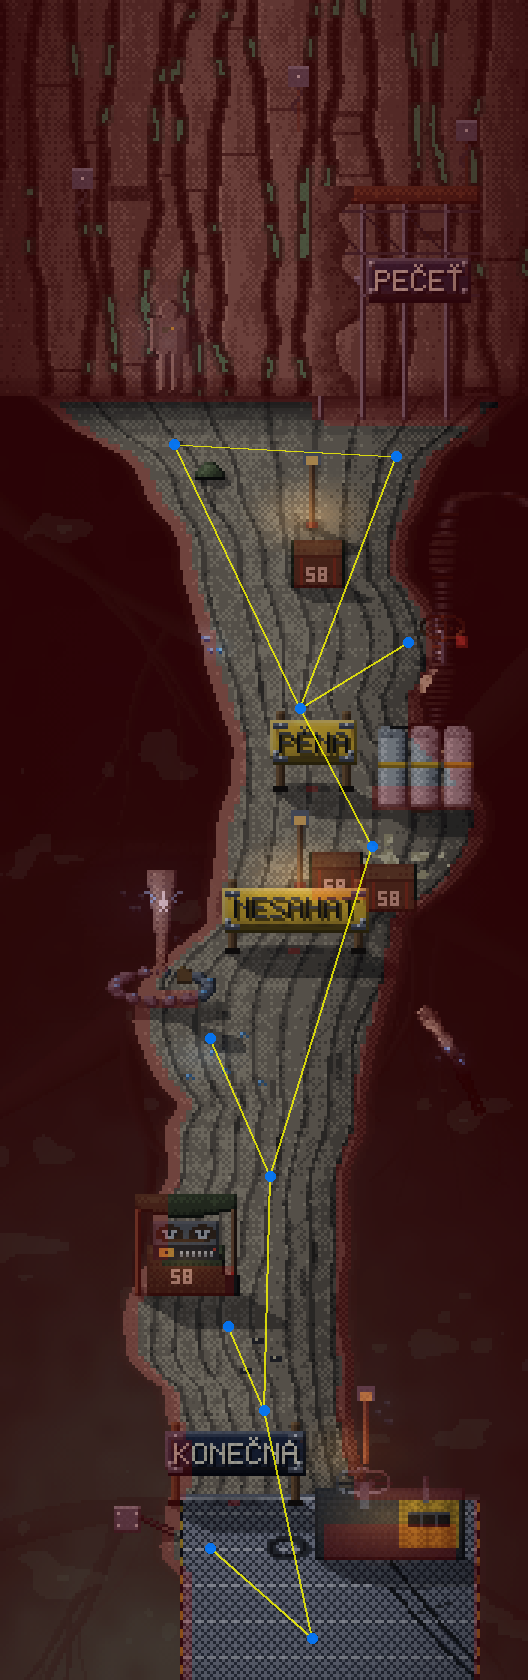
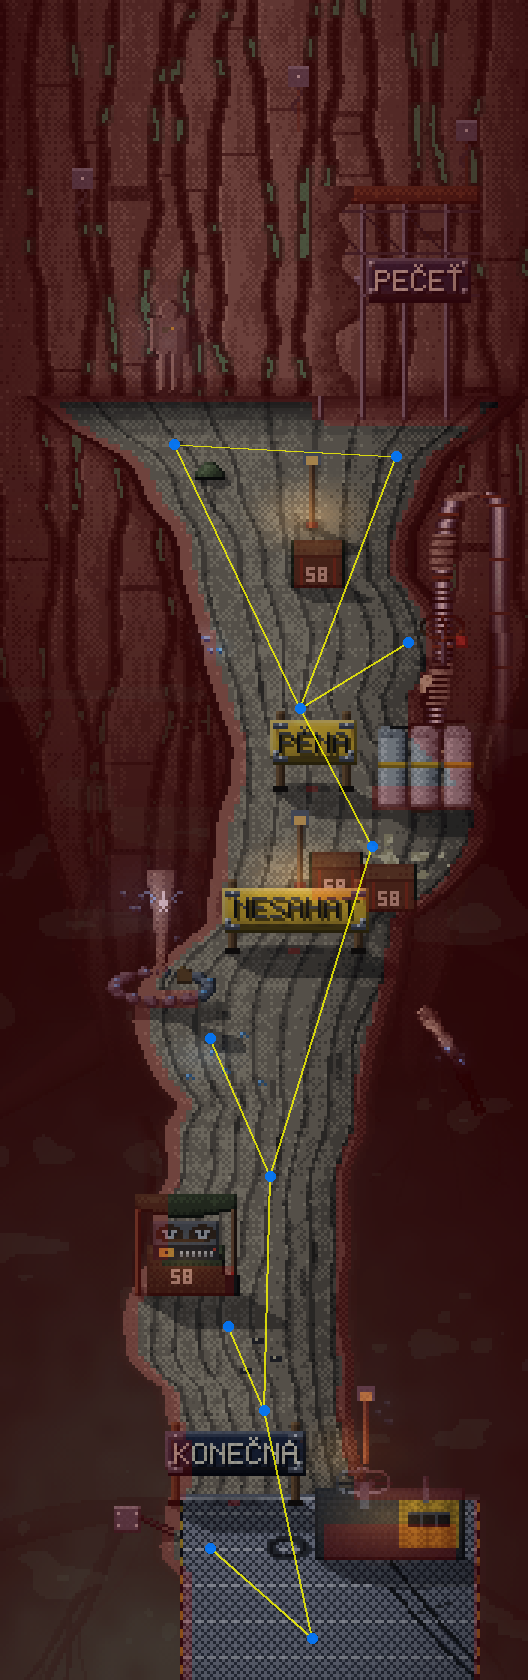
Kořenový most: kmen pokračuje pod kořenem dolů do tmy
Pod hranou kořene je vykreslený zbytek kmene, který se zužuje do hloubky, tmavne a mizí v mlze ke koruně;
kořen na něj vrhá stín, potrubí s pěnou vede po kmeni dolů k ráně.

Claude-Session: https://claude.ai/code/session_01DEnSwqHYg5ekKXqGuApBa4

Changed region(s): [[0.0, 0.2167, 0.3939, 0.4952], [0.7879, 0.2476, 1.0, 0.4333]]

diff --git a/tools/mapgen/gen_root_bridge.py b/tools/mapgen/gen_root_bridge.py
@@ -82,6 +82,74 @@ for y in range(WALL_H, AH):                                                # vrs
         a = math.floor(max(0.0, (m - 0.6) * 1.6) * 4) / 4 * 0.5
         if a > 0:
             img[y, x, :3] = np.clip(img[y, x, :3] * (1 - a) + np.array([64, 128, 108]) * a, 0, 255)
+# ── kmen: kůra jako kost, hluboké svislé rýhy se zeleným světlem (stěna nahoře i pokračování dolů do tmy) ──
+TRUNK = [c(0x14130F), c(0x2A2722), c(0x433F37), c(0x5E594E), c(0x7C7668), c(0x9C9584), c(0xBDB6A2)]
+FUR = []                                                                  # svislé rýhy kůry
+for k in range(-1, 16):
+    FUR.append((k * 12.5 + rng.uniform(-3, 3), rng.uniform(0, 6), rng.uniform(26, 44), k))
+
+
+def fur_x(f, y):
+    b, ph, per, k = f
+    return b + 3.5 * math.sin(y / per + ph) + (_vn(k * 31, y, 71, 14) - 0.5) * 5
+
+
+def trunk_v(x, y, xs):
+    """Světlost kůry v bodě (0–1) a zda svítí rýha; xs = seřazené x rýh v řádku y."""
+    i = int(np.searchsorted(xs, x + 0.5))
+    lft, rgt = xs[max(0, i - 1)], xs[min(len(xs) - 1, i)]
+    t = (x + 0.5 - lft) / max(1.0, rgt - lft)                             # 0 u levé rýhy … 1 u pravé
+    dist = min(abs(x + 0.5 - lft), abs(rgt - x - 0.5))
+    v = 0.6 - abs((x - 88) / 110) ** 2 * 0.45                             # obrovský válec, světlo uprostřed
+    v += 0.12 * (0.5 - t) + (_vn(x * 1.4, y * 0.5, 74, 3) - 0.5) * 0.16
+    if t < 0.18:
+        v += 0.12                                                         # levá hrana plátu ve světle
+    if (y + int(lft * 7)) % 23 == 0 and _h(int(lft), y // 23, 78) % 3 == 0:
+        v -= 0.3                                                          # příčná prasklina plátu
+    g = 0.0
+    if dist < 1.3:
+        v = 0.04
+        if _vn(int(lft) * 13, y * 0.05, 75, 1) > 0.8:
+            g = 1.0
+    elif dist < 2.4:
+        v = min(v, 0.2)
+    return v, g
+
+
+# kmen pokračuje pod kořenem dolů k obrácené koruně: zužuje se do hloubky, tmavne a mizí v mlze
+TRUNK_DEPTH = 240
+trunk_ext = np.zeros((AH, AW))
+for y in range(WALL_H, WALL_H + TRUNK_DEPTH):
+    d = (y - WALL_H) / TRUNK_DEPTH
+    half = 110 - (y - WALL_H) * 0.26 + (_vn(0, y, 81, 12) - 0.5) * 4
+    xs = sorted(fur_x(f, y) for f in FUR)
+    L, R = edges(y)
+    for x in range(AW):
+        off = abs(x + 0.5 - 88)
+        if off > half or L - 3 <= x <= R + 3:
+            continue
+        v, g = trunk_v(x, y, xs)
+        v *= 1 - 0.55 * d
+        if off > half - 2.5:
+            v = 0.03                                                      # obrys válce, který se stáčí pryč
+        near = min(abs(x - (L - 3)), abs(x - (R + 3)))                     # kořen vrhá stín na kmen za sebou
+        if near < 10:
+            v *= 0.45 + 0.55 * near / 10
+        col = np.array(_pick(TRUNK, max(0.0, min(1.0, v)), x, y)[:3], float)
+        if g and d < 0.75:
+            col = col * d + np.array([62, 150, 108], float) * (1 - d) * 0.9
+        haze = min(1.0, d ** 1.25 * 1.05)                                  # do hloubky ho pohlcuje mlha a tma
+        mcol = np.clip(mist(x, y), 0, 255) * (0.75 + 0.25 * d)
+        img[y, x, :3] = np.clip(col * (1 - haze) + mcol * haze, 0, 255)
+        trunk_ext[y, x] = 1 - haze
+# rozhraní: pás mlhy přes pokračování kmene (měkké vrstvy, aby nebyl vidět řez)
+for y in range(WALL_H + 60, WALL_H + TRUNK_DEPTH + 20):
+    for x in range(AW):
+        m = _vn(x * 0.6 + 5, y * 1.3, 82, 20)
+        a = math.floor(max(0.0, (m - 0.55) * 1.4) * min(1.0, (y - WALL_H - 60) / 70) * 4) / 4 * 0.45
+        L, R = edges(y)
+        if a > 0 and not (L - 3 <= x <= R + 3):
+            img[y, x, :3] = np.clip(img[y, x, :3] * (1 - a) + np.array([58, 118, 98]) * a, 0, 255)
 vista = img.copy()
 
 # ── kořenový most ───────────────────────────────────────────────────────────
@@ -151,18 +219,27 @@ for t in np.linspace(0, 1, 120):
         img[Y, X, :3] = (26, 30, 34)
 
 # potrubí s pěnou: od nádrží vpravo vzhůru podél hrany, u kmene přes hranu dolů (k ráně)
-pipe = [(140, 270), (146, 240), (148, 214), (146, 186), (150, 168), (164, 160), (176, 168)]
+pipe = [(140, 270), (146, 240), (148, 214), (146, 186), (150, 168), (160, 160), (166, 168)]
 pts = bez(pipe[0], pipe[1], pipe[2], 30) + bez(pipe[2], pipe[3], pipe[4], 30) + bez(pipe[4], pipe[5], pipe[6], 30)
 for i, (x, y) in enumerate(pts):
     for k in range(-3, 4):
         X, Y = int(x + k), int(y)
         if 0 <= X < AW and 0 <= Y < AH:
             img[Y, X] = [STEEL[0], STEEL[2], STEEL[4], STEEL[5], STEEL[3], STEEL[1], STEEL[0]][k + 3]
-            block[Y, X] = True
+            block[Y, X] = True; sc.depth[Y, X] = sc.depth[Y, X] or 0.01
     if i % 14 == 0:                                                       # objímky přišroubované do kůry
         for k in range(-3, 4):
             if 0 <= int(x + k) < AW:
                 img[int(y), int(x + k)] = O.RUST[2]
+for y in range(168, 262):                                                 # dolů po kmeni, ztrácí se ve tmě
+    d = (y - 168) / 94
+    x0 = 166 + int(math.sin(y / 30) * 1.5)
+    for k in range(-3, 4):
+        col = np.array([STEEL[0], STEEL[2], STEEL[4], STEEL[5], STEEL[3], STEEL[1], STEEL[0]][k + 3][:3], float)
+        if (y - 168) % 18 == 0:
+            col = np.array(O.RUST[2][:3], float)
+        img[y, x0 + k, :3] = np.clip(col * (1 - d) * (1 - 0.4 * d) + img[y, x0 + k, :3] * d, 0, 255)
+        sc.depth[y, x0 + k] = 0.01
 # kůra přerůstá potrubí (pohlcení): úseky trubky pod kůrou
 for (i0, i1) in ((18, 26), (44, 52), (64, 72)):
     for (x, y) in pts[i0:i1]:
@@ -216,37 +293,12 @@ for (x, y) in ((70, 350), (74, 356), (62, 358), (80, 344), (58, 312), (86, 360))
 sc.shadows(floor)
 
 # ── kmen (zadní stěna): kůra jako kost, hluboké rýhy, zelené světlo v nich ──
-TRUNK = [c(0x14130F), c(0x2A2722), c(0x433F37), c(0x5E594E), c(0x7C7668), c(0x9C9584), c(0xBDB6A2)]
-FUR = []                                                                  # svislé rýhy kůry
-for k in range(-1, 16):
-    FUR.append((k * 12.5 + rng.uniform(-3, 3), rng.uniform(0, 6), rng.uniform(26, 44), k))
-
-
-def fur_x(f, y):
-    b, ph, per, k = f
-    return b + 3.5 * math.sin(y / per + ph) + (_vn(k * 31, y, 71, 14) - 0.5) * 5
-
-
 glow_mask = np.zeros((AH, AW))
 for y in range(WALL_H):
     xs = sorted(fur_x(f, y) for f in FUR)
     for x in range(AW):
-        i = int(np.searchsorted(xs, x + 0.5))
-        lft, rgt = xs[max(0, i - 1)], xs[min(len(xs) - 1, i)]
-        t = (x + 0.5 - lft) / max(1.0, rgt - lft)                         # 0 u levé rýhy … 1 u pravé
-        dist = min(abs(x + 0.5 - lft), abs(rgt - x - 0.5))
-        cyl = 0.6 - abs((x - 88) / 110) ** 2 * 0.45                       # obrovský válec, světlo uprostřed
-        v = cyl + 0.12 * (0.5 - t) + (_vn(x * 1.4, y * 0.5, 74, 3) - 0.5) * 0.16
-        if t < 0.18:
-            v += 0.12                                                     # levá hrana plátu ve světle
-        if (y + int(lft * 7)) % 23 == 0 and _h(int(lft), y // 23, 78) % 3 == 0:
-            v -= 0.3                                                      # příčná prasklina plátu
-        if dist < 1.3:
-            v = 0.04
-            if _vn(int(lft) * 13, y * 0.05, 75, 1) > 0.8:
-                glow_mask[y, x] = 1.0
-        elif dist < 2.4:
-            v = min(v, 0.2)
+        v, g = trunk_v(x, y, xs)
+        glow_mask[y, x] = g
         img[y, x] = _pick(TRUNK, max(0.0, min(1.0, v)), x, y)
 for y in range(WALL_H):                                                   # zelené světlo z rýh (+ jemná záře okolo)
     for x in range(AW):
@@ -257,7 +309,7 @@ for y in range(WALL_H):                                                   # zele
 # pata kmene přechází do kořene (stín v koutě)
 for y in range(WALL_H - 6, WALL_H + 10):
     for x in range(AW):
-        if floor[y, x] or y < WALL_H:
+        if floor[y, x] or (y < WALL_H and floor[WALL_H + 2, x]):
             k = max(0.0, 1 - abs(y - WALL_H) / 10) * 0.45
             img[y, x, :3] = (img[y, x, :3] * (1 - k)).astype(np.uint8)
 
@@ -343,7 +395,8 @@ sc.light(
     dark_k=0.36, warm_k=0.32, cold_k=0.2)
 keep = ~floor & (sc.zbuf < -1e8) & (sc.depth == 0)
 keep[:WALL_H] = False
-img[keep, :3] = (vista[keep, :3] * 0.8 + img[keep, :3] * 0.2).astype(np.uint8)
+wv = (1 - trunk_ext[keep])[:, None]                                       # kmen do hloubky plynule přechází do výhledu
+img[keep, :3] = ((vista[keep, :3] * 0.8 + img[keep, :3] * 0.2) * wv + img[keep, :3] * (1 - wv)).astype(np.uint8)
 sc.export("root_bridge", "gen_root_bridge.py")
 
 # portrét magnetofonu pro dialogy úkolu (8× bez vyhlazení)
